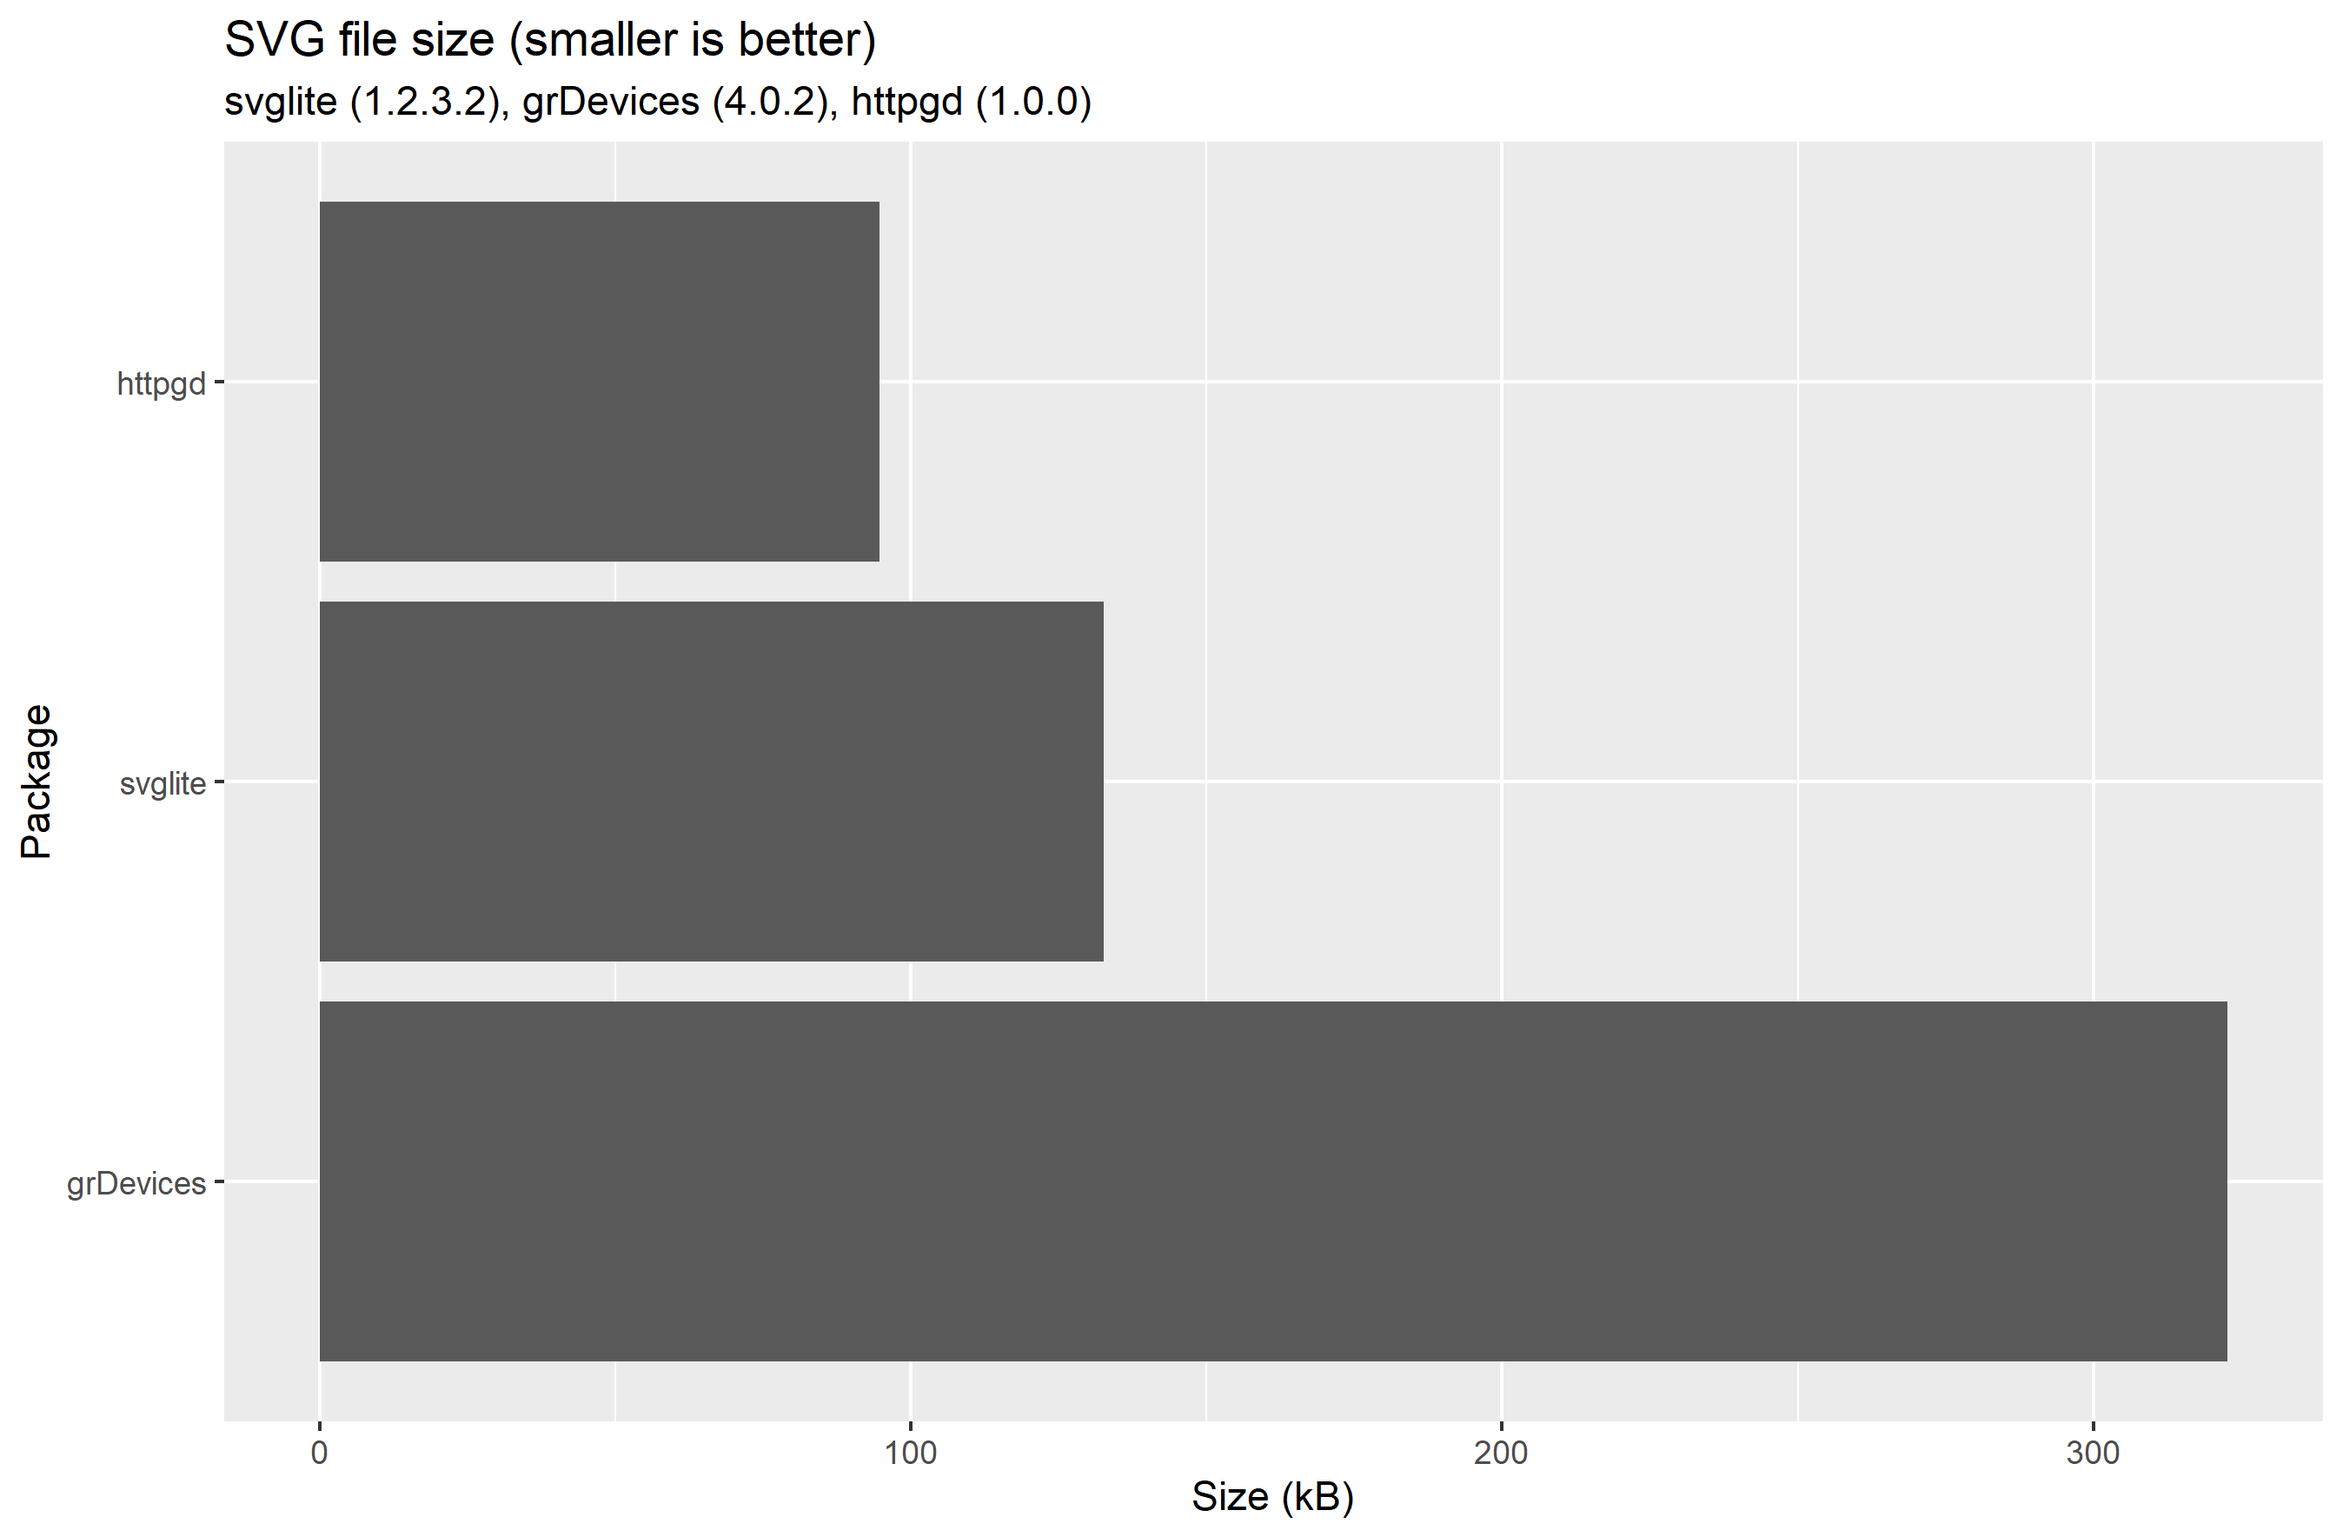
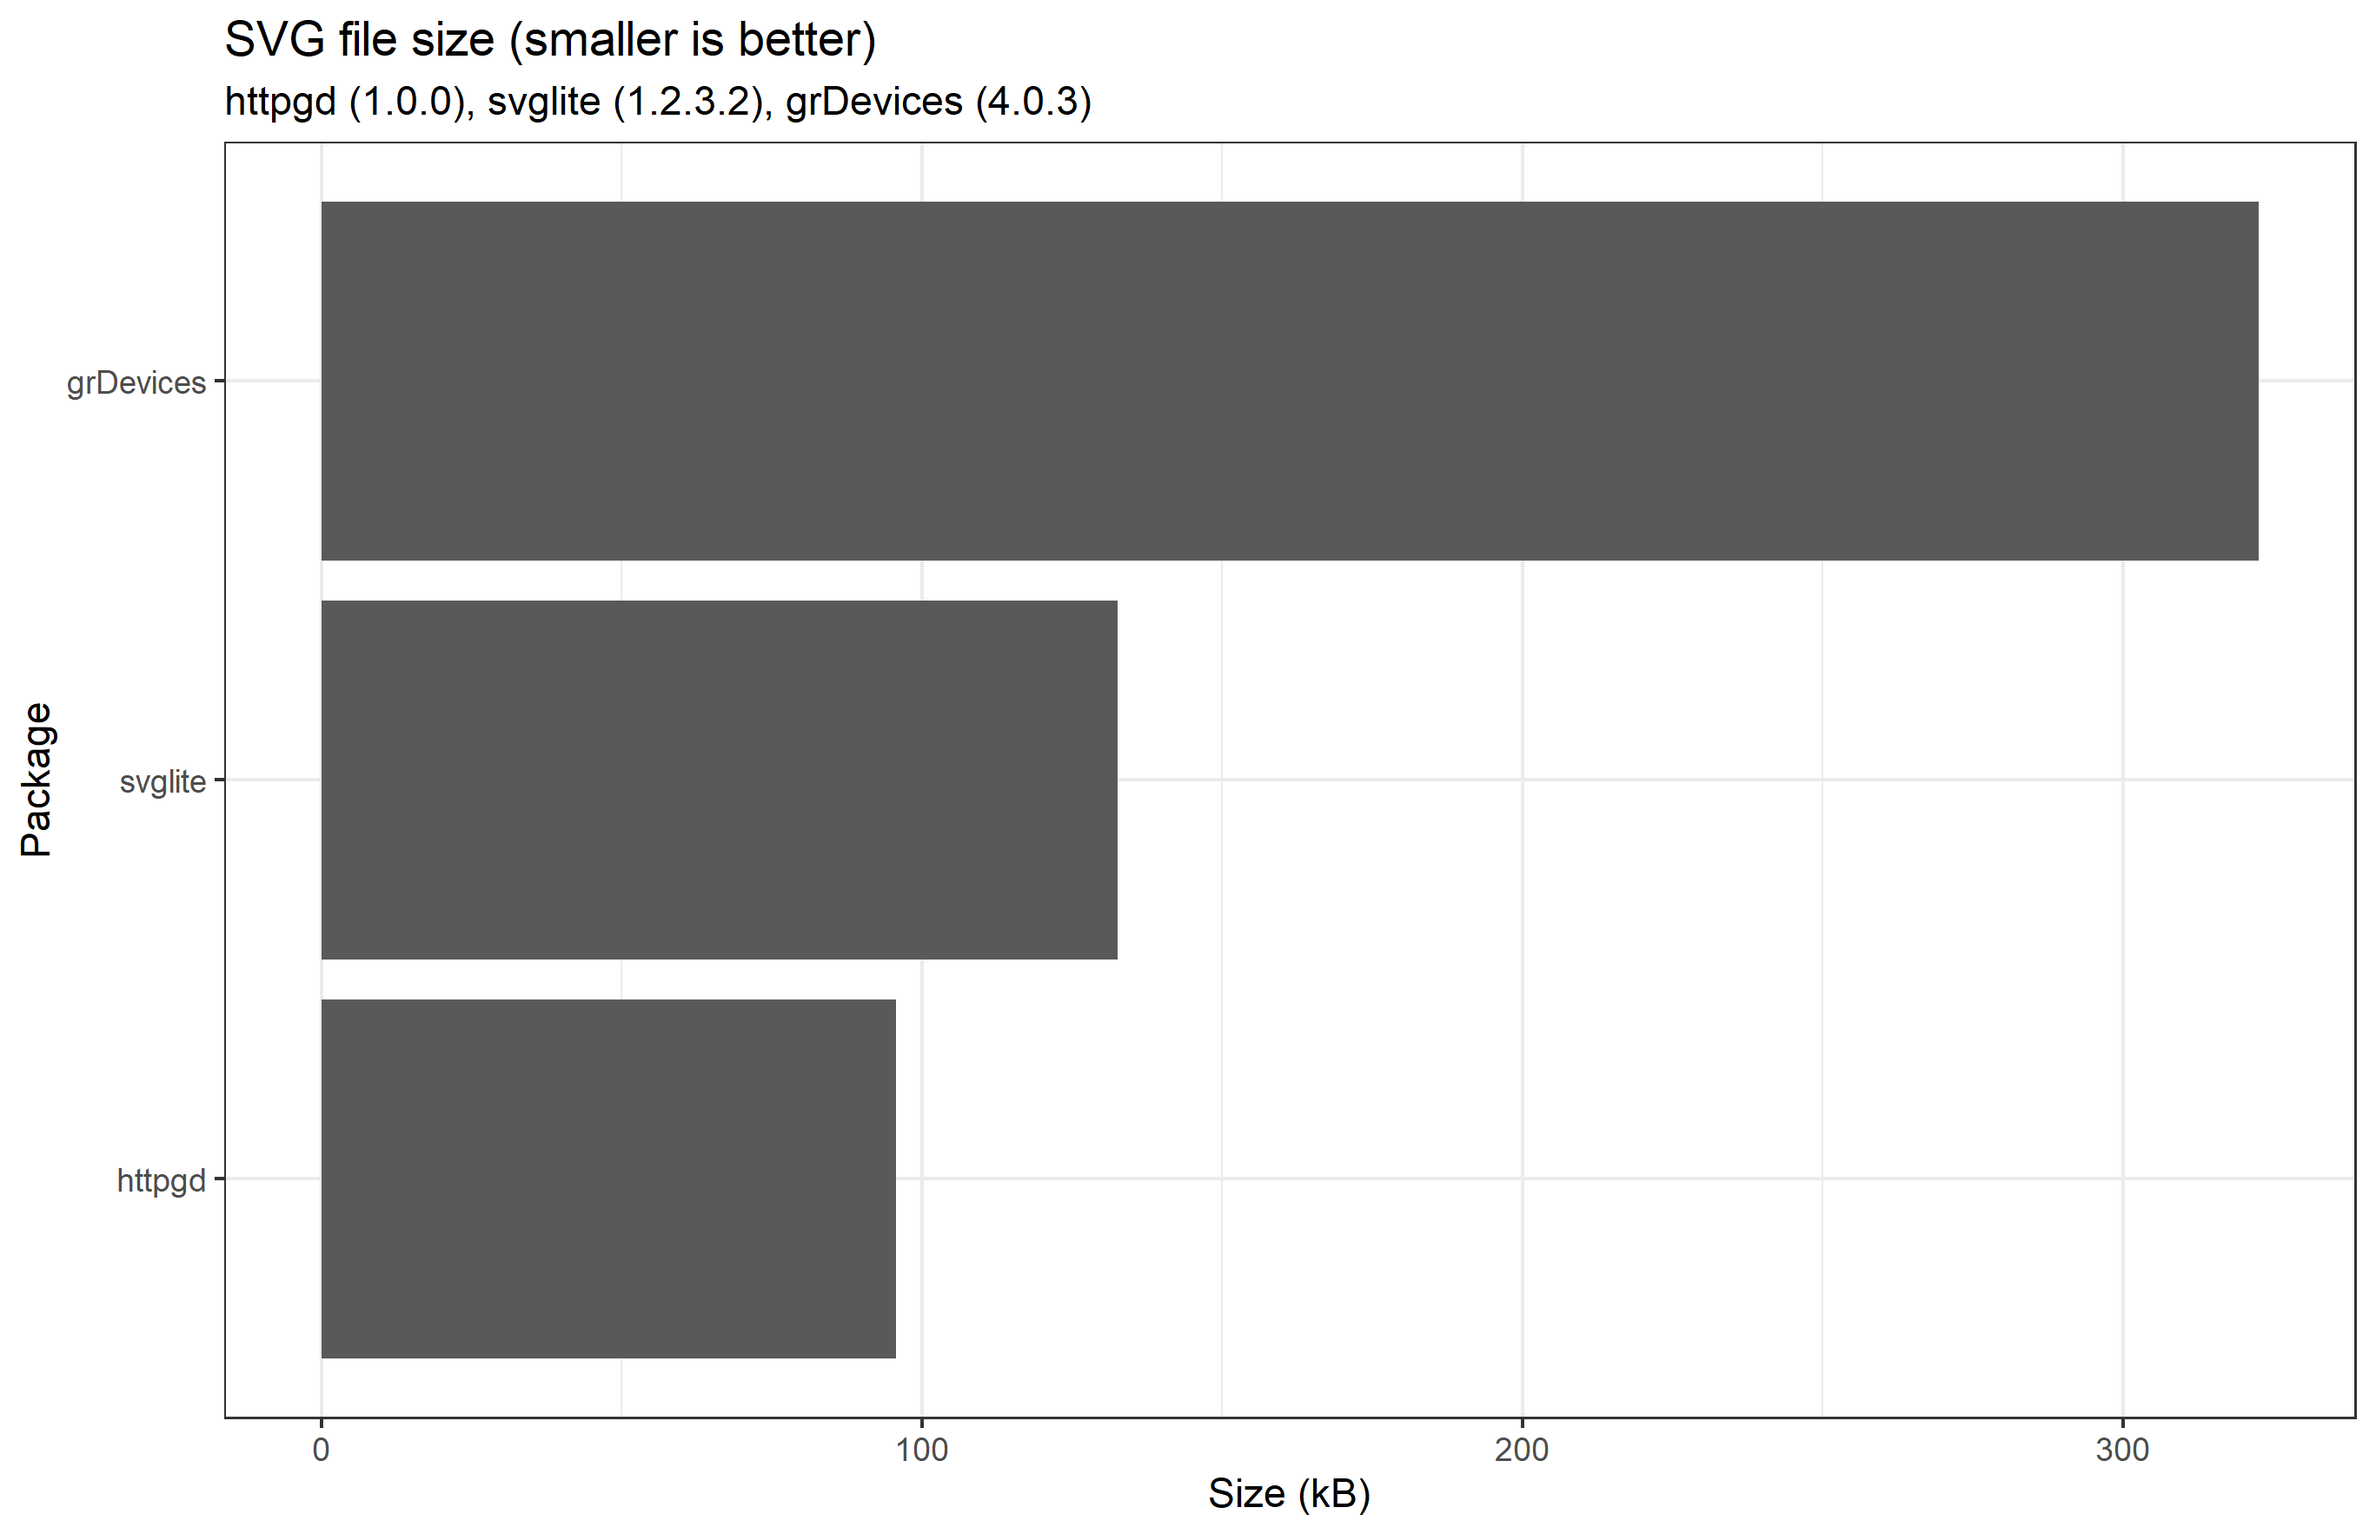
update readme/benchmarks

diff --git a/README.md b/README.md
@@ -92,7 +92,13 @@ httpgd can be accessed both from R and from HTTP:
 
 ## Benchmark
 
-The following benchmark (expanded from [svglite](https://github.com/r-lib/svglite/blob/master/README.md))
+There are currently no other network graphics devices for comparison, httpgd can be used in offline mode (with `hgd(webserver = FALSE)`) to compare it with conventional SVG graphics devices.
+
+The [benchmark from svglite](https://github.com/r-lib/svglite/blob/master/README.md) has the following results:
+
+<details>
+
+<summary>Code</summary>
 
 ```R
 library(svglite)
@@ -123,21 +129,20 @@ ben <-
   bench::mark(httpgd_test(), svglite_test(), svg_test(), iterations = 250)
 ```
 
-has the following results:
+[See full code](docs/benchmark.R)
+
+</details>
 
 |expression     |    min| median|  itr/sec| mem_alloc|    gc/sec| n_itr| n_gc| total_time|
 |:--------------|------:|------:|--------:|---------:|---------:|-----:|----:|----------:|
-|httpgd_test()  | 10.3ms|   11ms| 90.03988|     363KB| 0.3616059|   249|    1|      2.77s|
-|svglite_test() | 20.7ms| 21.3ms| 46.02538|     593KB| 0.5590127|   247|    3|      5.37s|
-|svg_test()     | 27.2ms| 28.3ms| 34.52923|     126KB| 0.0000000|   250|    0|      7.24s|
+|httpgd_test()  | 10.2ms| 10.8ms| 91.43165|     361KB| 0.7373520|   248|    2|      2.71s|
+|svglite_test() | 20.3ms| 21.4ms| 46.29561|     593KB| 0.5622948|   247|    3|      5.33s|
+|svg_test()     | 27.2ms| 28.3ms| 35.15964|     126KB| 0.1412034|   249|    1|      7.08s|
 
-*Package versions: svglite (1.2.3.2), grDevices (4.0.2), httpgd (0.4.0)*
+*Package versions: httpgd (1.0.0), svglite (1.2.3.2), grDevices (4.0.3)*
 
-<img src="https://raw.githubusercontent.com/nx10/httpgd/master/docs/bench_speed1.png" width="640"/> <img src="https://raw.githubusercontent.com/nx10/httpgd/master/docs/bench_size1.png" width="640"/>
+<img src="docs/bench_speed1.png" width="640"/> <img src="docs/bench_size1.png" width="640"/>
 
-## Planned features
-
-* TLS encryption (HTTPS/WSS)
 
 ## System requirements
 
@@ -162,7 +167,9 @@ Install [XQuartz](https://www.xquartz.org/).
 
 ## Help welcome
 
-Any advice and suggestions are welcome. Especially with C++ optimization and security.
+The various components of httpgd are written in C++, R and TypeScript. We welcome contributions of any kind.
+
+Other areas in need of improvement are: Testing, documentation, net security and continuous integration.
 
 ## License
 

diff --git a/docs/bench_speed1.md b/docs/bench_speed1.md
@@ -1,7 +1,7 @@
 |expression     |    min| median|  itr/sec| mem_alloc|    gc/sec| n_itr| n_gc| total_time|
 |:--------------|------:|------:|--------:|---------:|---------:|-----:|----:|----------:|
-|httpgd_test()  | 11.9ms| 12.7ms| 76.21250|     265KB| 0.9256579|   247|    3|      3.24s|
-|svglite_test() | 20.8ms| 21.6ms| 45.70689|     593KB| 1.7068962|   241|    9|      5.27s|
-|svg_test()     | 27.6ms| 28.7ms| 34.44170|     126KB| 0.1383201|   249|    1|      7.23s|
+|httpgd_test()  | 10.2ms| 10.8ms| 91.43165|     361KB| 0.7373520|   248|    2|      2.71s|
+|svglite_test() | 20.3ms| 21.4ms| 46.29561|     593KB| 0.5622948|   247|    3|      5.33s|
+|svg_test()     | 27.2ms| 28.3ms| 35.15964|     126KB| 0.1412034|   249|    1|      7.08s|
 
-svglite (1.2.3.2), grDevices (4.0.2), httpgd (1.0.0)
+httpgd (1.0.0), svglite (1.2.3.2), grDevices (4.0.3)
